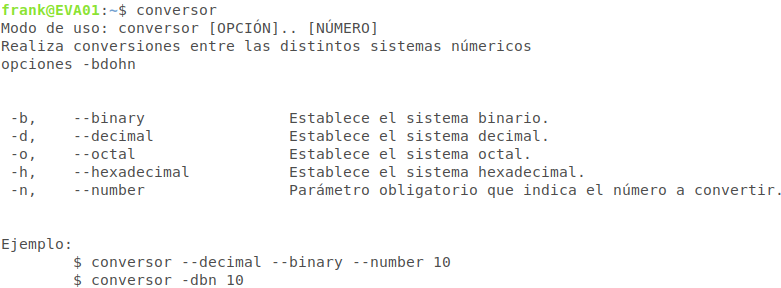
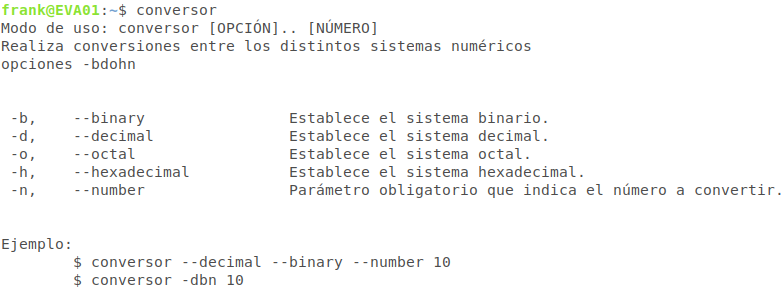
Corrijo errores de ortografia

diff --git a/conversor.c b/conversor.c
@@ -4,7 +4,7 @@
 
 void usage(){
 	printf("Modo de uso: conversor [OPCIÓN].. [NÚMERO]\n");
-	puts("Realiza conversiones entre las distintos sistemas númericos");
+	puts("Realiza conversiones entre los distintos sistemas numéricos");
 	puts("opciones -bdohn");
 	puts("\n");
 	puts(" -b,	--binary		Establece el sistema binario.");
